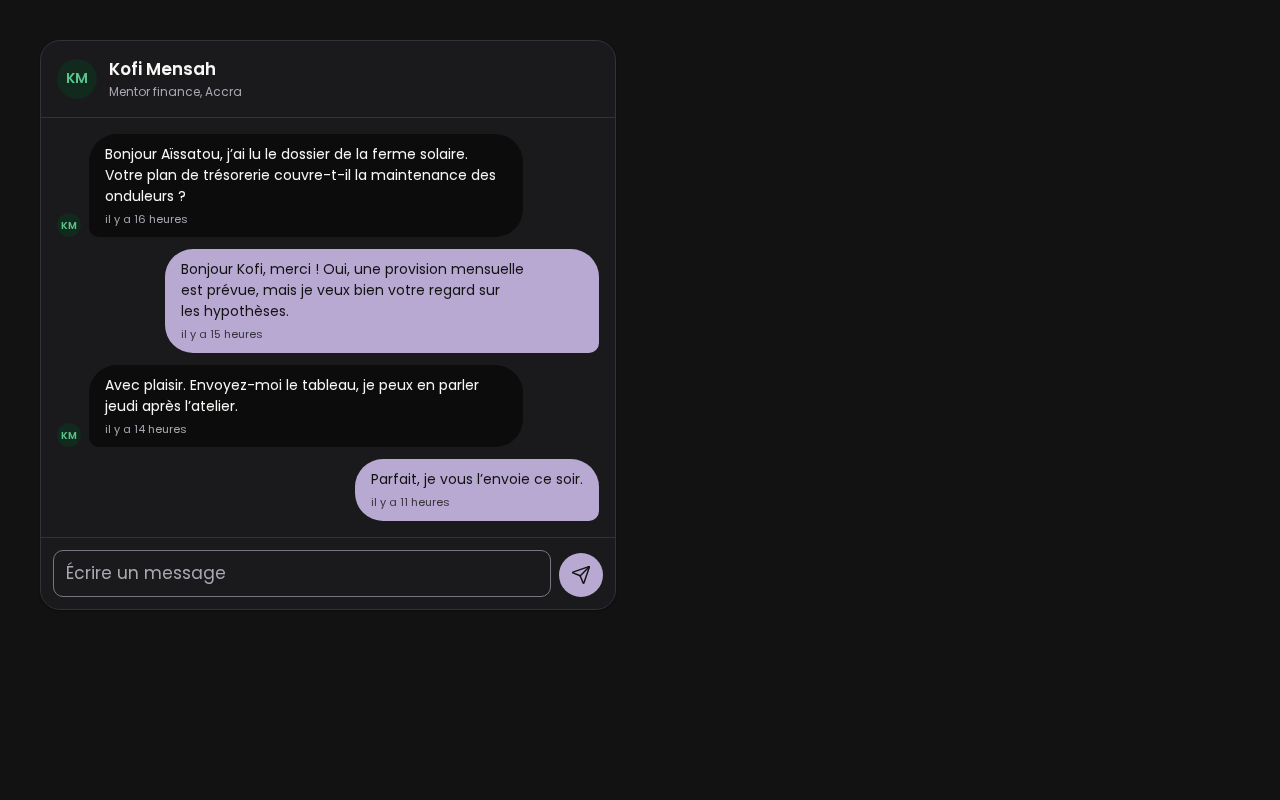
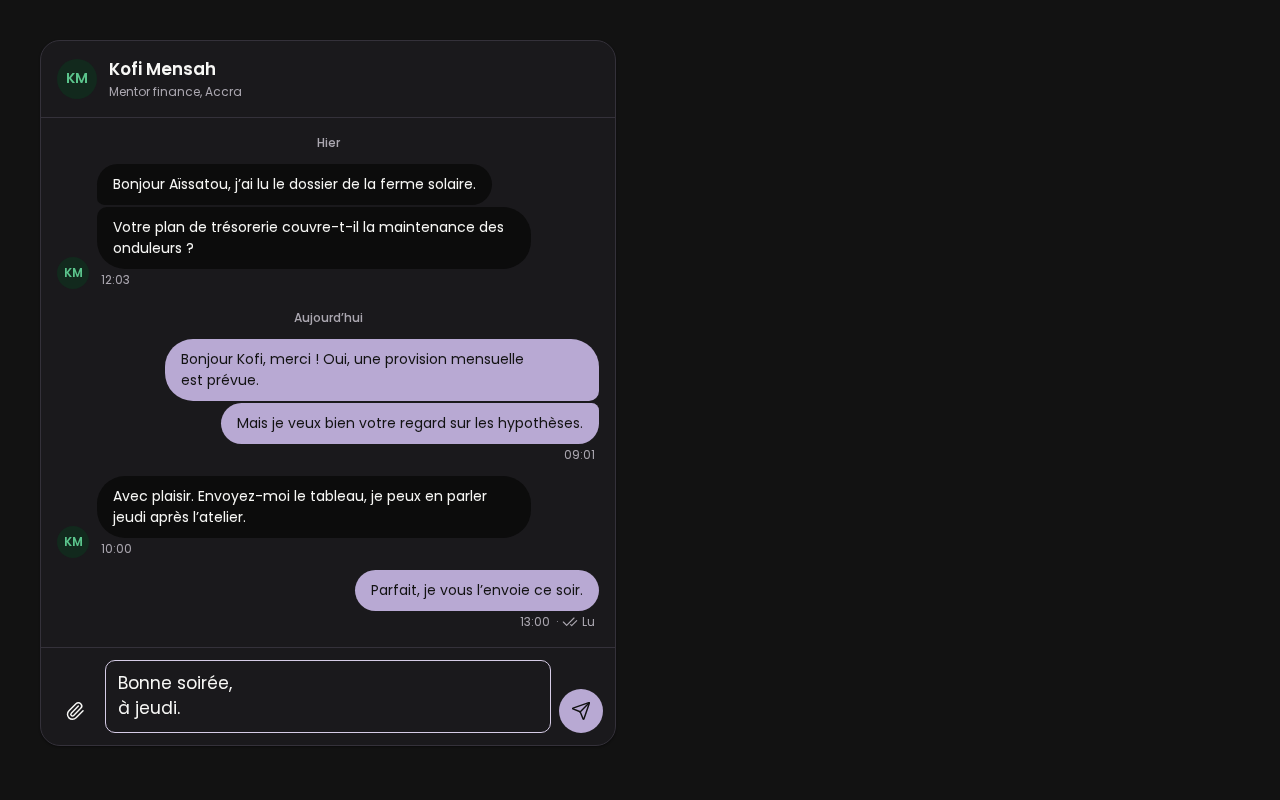
docs(design): regenerate the captures of the conversation and the notifications

diff --git a/docs/design/review/README.md b/docs/design/review/README.md
@@ -10,8 +10,8 @@ Fichiers `<composition>-<format>-<thème>.png` : format `desktop` (1280x800) ou 
 - `member-shell-loaded` : le même cadre, fil chargé, carte de profil, carte de projet compacte, suggestions avec leur raison.
 - `profile-card-story` : carte de profil avec force du profil.
 - `project-card-story` : `ProjectCard` en variantes `full` (paliers et leur état) et `compact`, montants sans décimales, impact teinté.
-- `notifications-list` : liste de notifications, lues et non lues.
-- `conversation` : fil de messages et zone de saisie.
+- `notifications-list` : `NotificationItem`, lues et non lues : colonne média fixe, pastille du type, extrait de la publication, demande de connexion à accepter ou ignorer sur place.
+- `conversation` : `ConversationThread` sur deux jours (séparateurs, groupes, heure courte, « Lu ») et `MessageComposer` (hauteur automatique, pièce jointe).
 - `form-with-server-errors` : formulaire complet (dates en segments, fuseau dit une fois) après une règle vérifiée dans le navigateur puis une réponse RFC 9457 de l'api : résumé focalisé avec un lien par erreur, messages précis sous les champs, actions empilées sur téléphone.
 - `admin-table` : cadre d'administration, fil d'Ariane, tableau triable.
 
